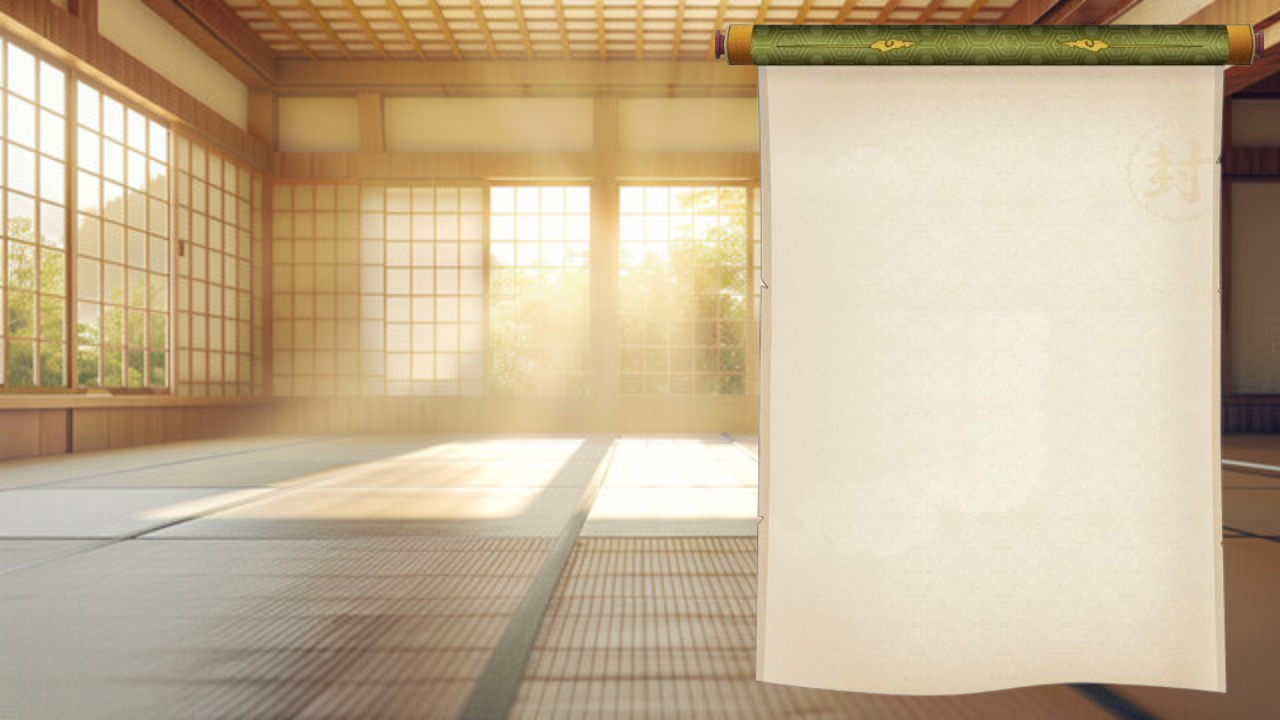
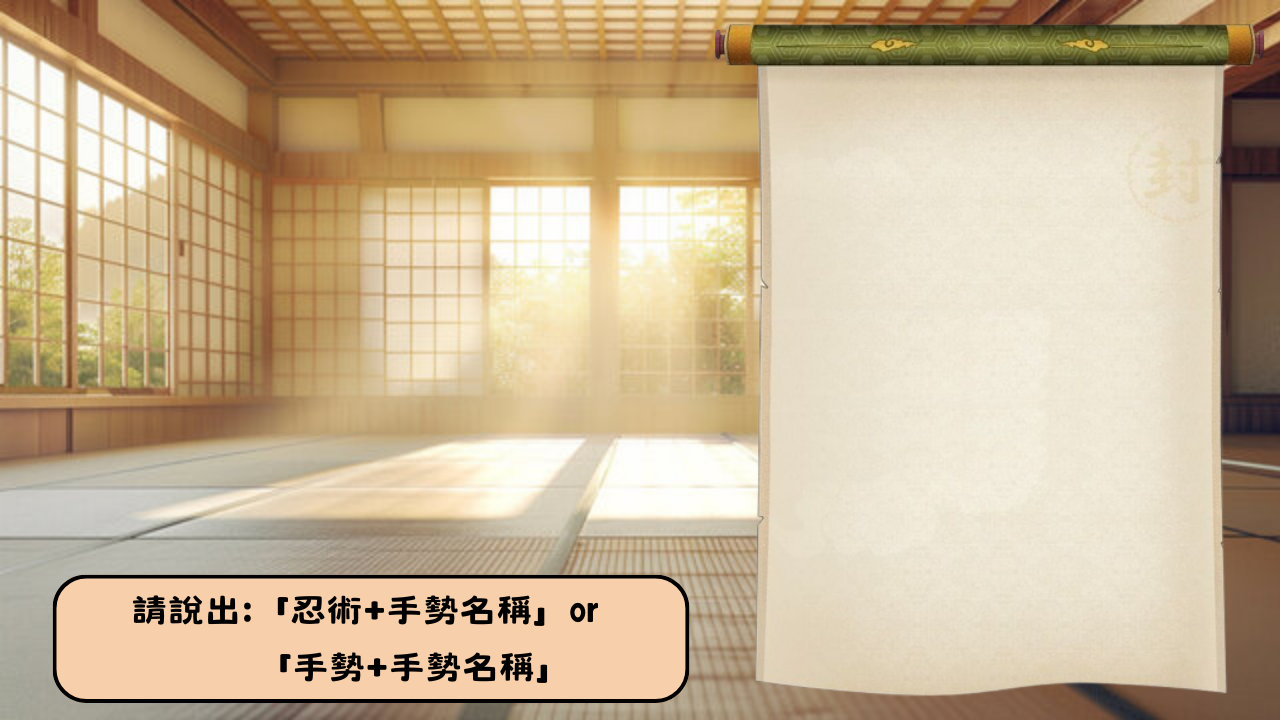
修改practice ui 新增提示詞

Changed region(s): [[0.0312, 0.7944, 0.5625, 0.9778]]

diff --git a/screens/practice/practice_screen.py b/screens/practice/practice_screen.py
@@ -3,7 +3,7 @@ import cv2
 import numpy as np
 import copy
 from screens.base_screen import BaseScreen
-from utils.constants import WINDOW_SIZE, FONT
+from utils.constants import WINDOW_SIZE, FONT_BOLD
 from model.yolox.yolox_onnx import YoloxONNX
 import random
 import json
@@ -89,7 +89,9 @@ class PracticeScreen(BaseScreen):
                         self.detected_jutsu_name = jutsu["chinese_name"]
                         self.is_recording = False
                         self.is_listening = False
-                        self.callback("jutsu_detected", self.combined_jutsu[jutsu["index"] - 1])
+                        self.callback(
+                            "jutsu_detected", self.combined_jutsu[jutsu["index"] - 1]
+                        )
                         # minus 1 because jutsu start with id = 1, but list elements start at 0
                         break
 
@@ -111,11 +113,11 @@ class PracticeScreen(BaseScreen):
                 temp_frame,
                 f"{jutsu_ch} ({jutsu_en})",
                 (800, y_offset),
-                "assets/fonts/NotoSansTC-VariableFont_wght.ttf",
+                FONT_BOLD,
                 28,
                 (0, 0, 0),
             )
-            y_offset += 40
+            y_offset += 50
 
         # 繪製麥克風圖標（在畫面左側中間）
         mic_x = 250
@@ -143,7 +145,7 @@ class PracticeScreen(BaseScreen):
             temp_frame,
             status_text,
             (mic_x, mic_y + 220),
-            "assets/fonts/NotoSansTC-Bold.ttf",
+            FONT_BOLD,
             30,
             (0, 0, 0),
         )
@@ -163,7 +165,7 @@ class PracticeScreen(BaseScreen):
                 temp_frame,
                 detection_text,
                 (50, 600),
-                "assets/fonts/NotoSansTC-VariableFont_wght.ttf",
+                FONT_BOLD,
                 40,
                 text_color,
             )
@@ -174,18 +176,26 @@ class PracticeScreen(BaseScreen):
 
         # 繪製返回按鈕 (移動到左上角)
         back_x, back_y = 50, 50
+        func_button_width = 150
+        func_button_height = 60
         cv2.rectangle(
-            temp_frame, (back_x, back_y), (back_x + 200, back_y + 50), (0, 0, 255), -1
+            temp_frame,
+            (back_x, back_y),
+            (back_x + func_button_width, back_y + func_button_height),
+            (40, 40, 245),
+            -1,
         )
         CvDrawText.puttext(
             temp_frame,
             "返回",
-            (back_x + 70, back_y + 10),
-            FONT,
+            (back_x + 45, back_y + 10),
+            FONT_BOLD,
             30,
             (255, 255, 255),
         )
-        self.button_areas.append((back_x, back_y, back_x + 200, back_y + 50))
+        self.button_areas.append(
+            (back_x, back_y, back_x + func_button_width, back_y + func_button_height)
+        )
 
         # 將處理後的圖像複製回原始 frame
         frame[:] = temp_frame
